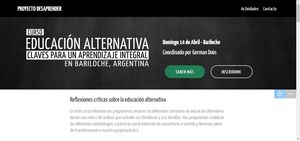
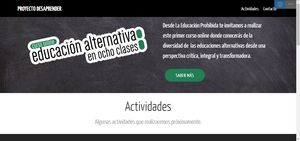
Actualizacion

diff --git a/curso/index.html b/curso/index.html
@@ -64,7 +64,7 @@ src="https://www.facebook.com/tr?id=927746117427355&ev=PageView
                 
                 
                 <div class="mbr-section-text mbr-white pb-3 ">
-                    <p class="mbr-text mbr-fonts-style display-5"><br>Desde La Educación Prohibida te invitamos a conocer las bases de las pedagogías alternativas: Montessori, Waldorf, libre, popular, democrática y todas las corrientes de la educación alternativa en un solo curso.</p>
+                    <p class="mbr-text mbr-fonts-style display-5"><br>Un curso online de los creadores de La Educación Prohibida para conocer el amplio universo de la <strong>educación alternativa </strong>desde una perspectiva integral, crítica y constructiva.</p>
                 </div>
                 <div class="mbr-section-btn"><a class="btn btn-md btn-primary display-4" href="index.html#features1-7">SABER MÁS</a>
                     <a class="btn btn-md btn-white-outline display-4" href="index.html#pricing-tables1-1i">INSCRIBIRME</a></div>
@@ -74,7 +74,7 @@ src="https://www.facebook.com/tr?id=927746117427355&ev=PageView
 
 </section>
 
-<section class="engine"><a href="https://mobirise.info/w">free html5 templates</a></section><section class="cid-r6cGhRHPLU" id="video2-1f">
+<section class="engine"><a href="https://mobirise.info/j">website templates</a></section><section class="cid-r6cGhRHPLU" id="video2-1f">
 
     
     
@@ -385,7 +385,7 @@ src="https://www.facebook.com/tr?id=927746117427355&ev=PageView
                 <div class="plan-body pb-5">
                     <div class="plan-list align-center">
                         <ul class="list-group list-group-flush mbr-fonts-style display-7">
-                            <li class="list-group-item"><span style="font-size: 1.4rem;">Si resides en Argentina, adquiere el Curso Online con tarjetas de crédito, débito via Mercado Pago.</span><br></li><li class="list-group-item">1 usuario via Facebook  
+                            <li class="list-group-item"><span style="font-size: 1.4rem;">Valor total del Curso</span></li><li class="list-group-item"><span style="font-size: 1.4rem;">Si resides en Argentina, adquiere el Curso Online con tarjetas de crédito, débito via Mercado Pago.</span><br></li><li class="list-group-item">1 usuario via Facebook  
 </li><li class="list-group-item">8 clases en video, materiales y sesiones en vivo.</li>
                         </ul>
                     </div>
@@ -405,7 +405,7 @@ src="https://www.facebook.com/tr?id=927746117427355&ev=PageView
                 <div class="plan-body pb-5">
                     <div class="plan-list align-center">
                         <ul class="list-group list-group-flush mbr-fonts-style display-7">
-                            <li class="list-group-item"><span style="font-size: 1.4rem;">Si vives fuera de Argentina, adquiere el Curso Online con tarjeta de crédito o débito via Paypal.</span><br></li><li class="list-group-item">1 usuario via Facebook &nbsp;
+                            <li class="list-group-item"><span style="font-size: 1.4rem;">Valor total del Curso</span></li><li class="list-group-item"><span style="font-size: 1.4rem;">Si vives fuera de Argentina, adquiere el Curso Online con tarjeta de crédito o débito via Paypal.</span><br></li><li class="list-group-item">1 usuario via Facebook &nbsp;
 </li><li class="list-group-item">8 clases en video, materiales y sesiones en vivo.&nbsp;</li>
                         </ul>
                     </div>

diff --git a/curso/paypal.html b/curso/paypal.html
@@ -66,7 +66,7 @@ src="https://www.facebook.com/tr?id=927746117427355&ev=PageView
     
 </section>
 
-<section class="engine"><a href="https://mobirise.info/c">site builder</a></section><section class="mbr-section info1 cid-ri7oLpli5f" id="info1-1z">
+<section class="engine"><a href="https://mobirise.info/z">best free css templates</a></section><section class="mbr-section info1 cid-ri7oLpli5f" id="info1-1z">
 
     
 

diff --git a/curso/mp.html b/curso/mp.html
@@ -67,7 +67,7 @@ src="https://www.facebook.com/tr?id=927746117427355&ev=PageView
     
 </section>
 
-<section class="engine"><a href="https://mobirise.info/t">amp template</a></section><section class="mbr-section info1 cid-ri7ohx3Vin" id="info1-1y">
+<section class="engine"><a href="https://mobirise.info/v">html templates</a></section><section class="mbr-section info1 cid-ri7ohx3Vin" id="info1-1y">
 
     
 
